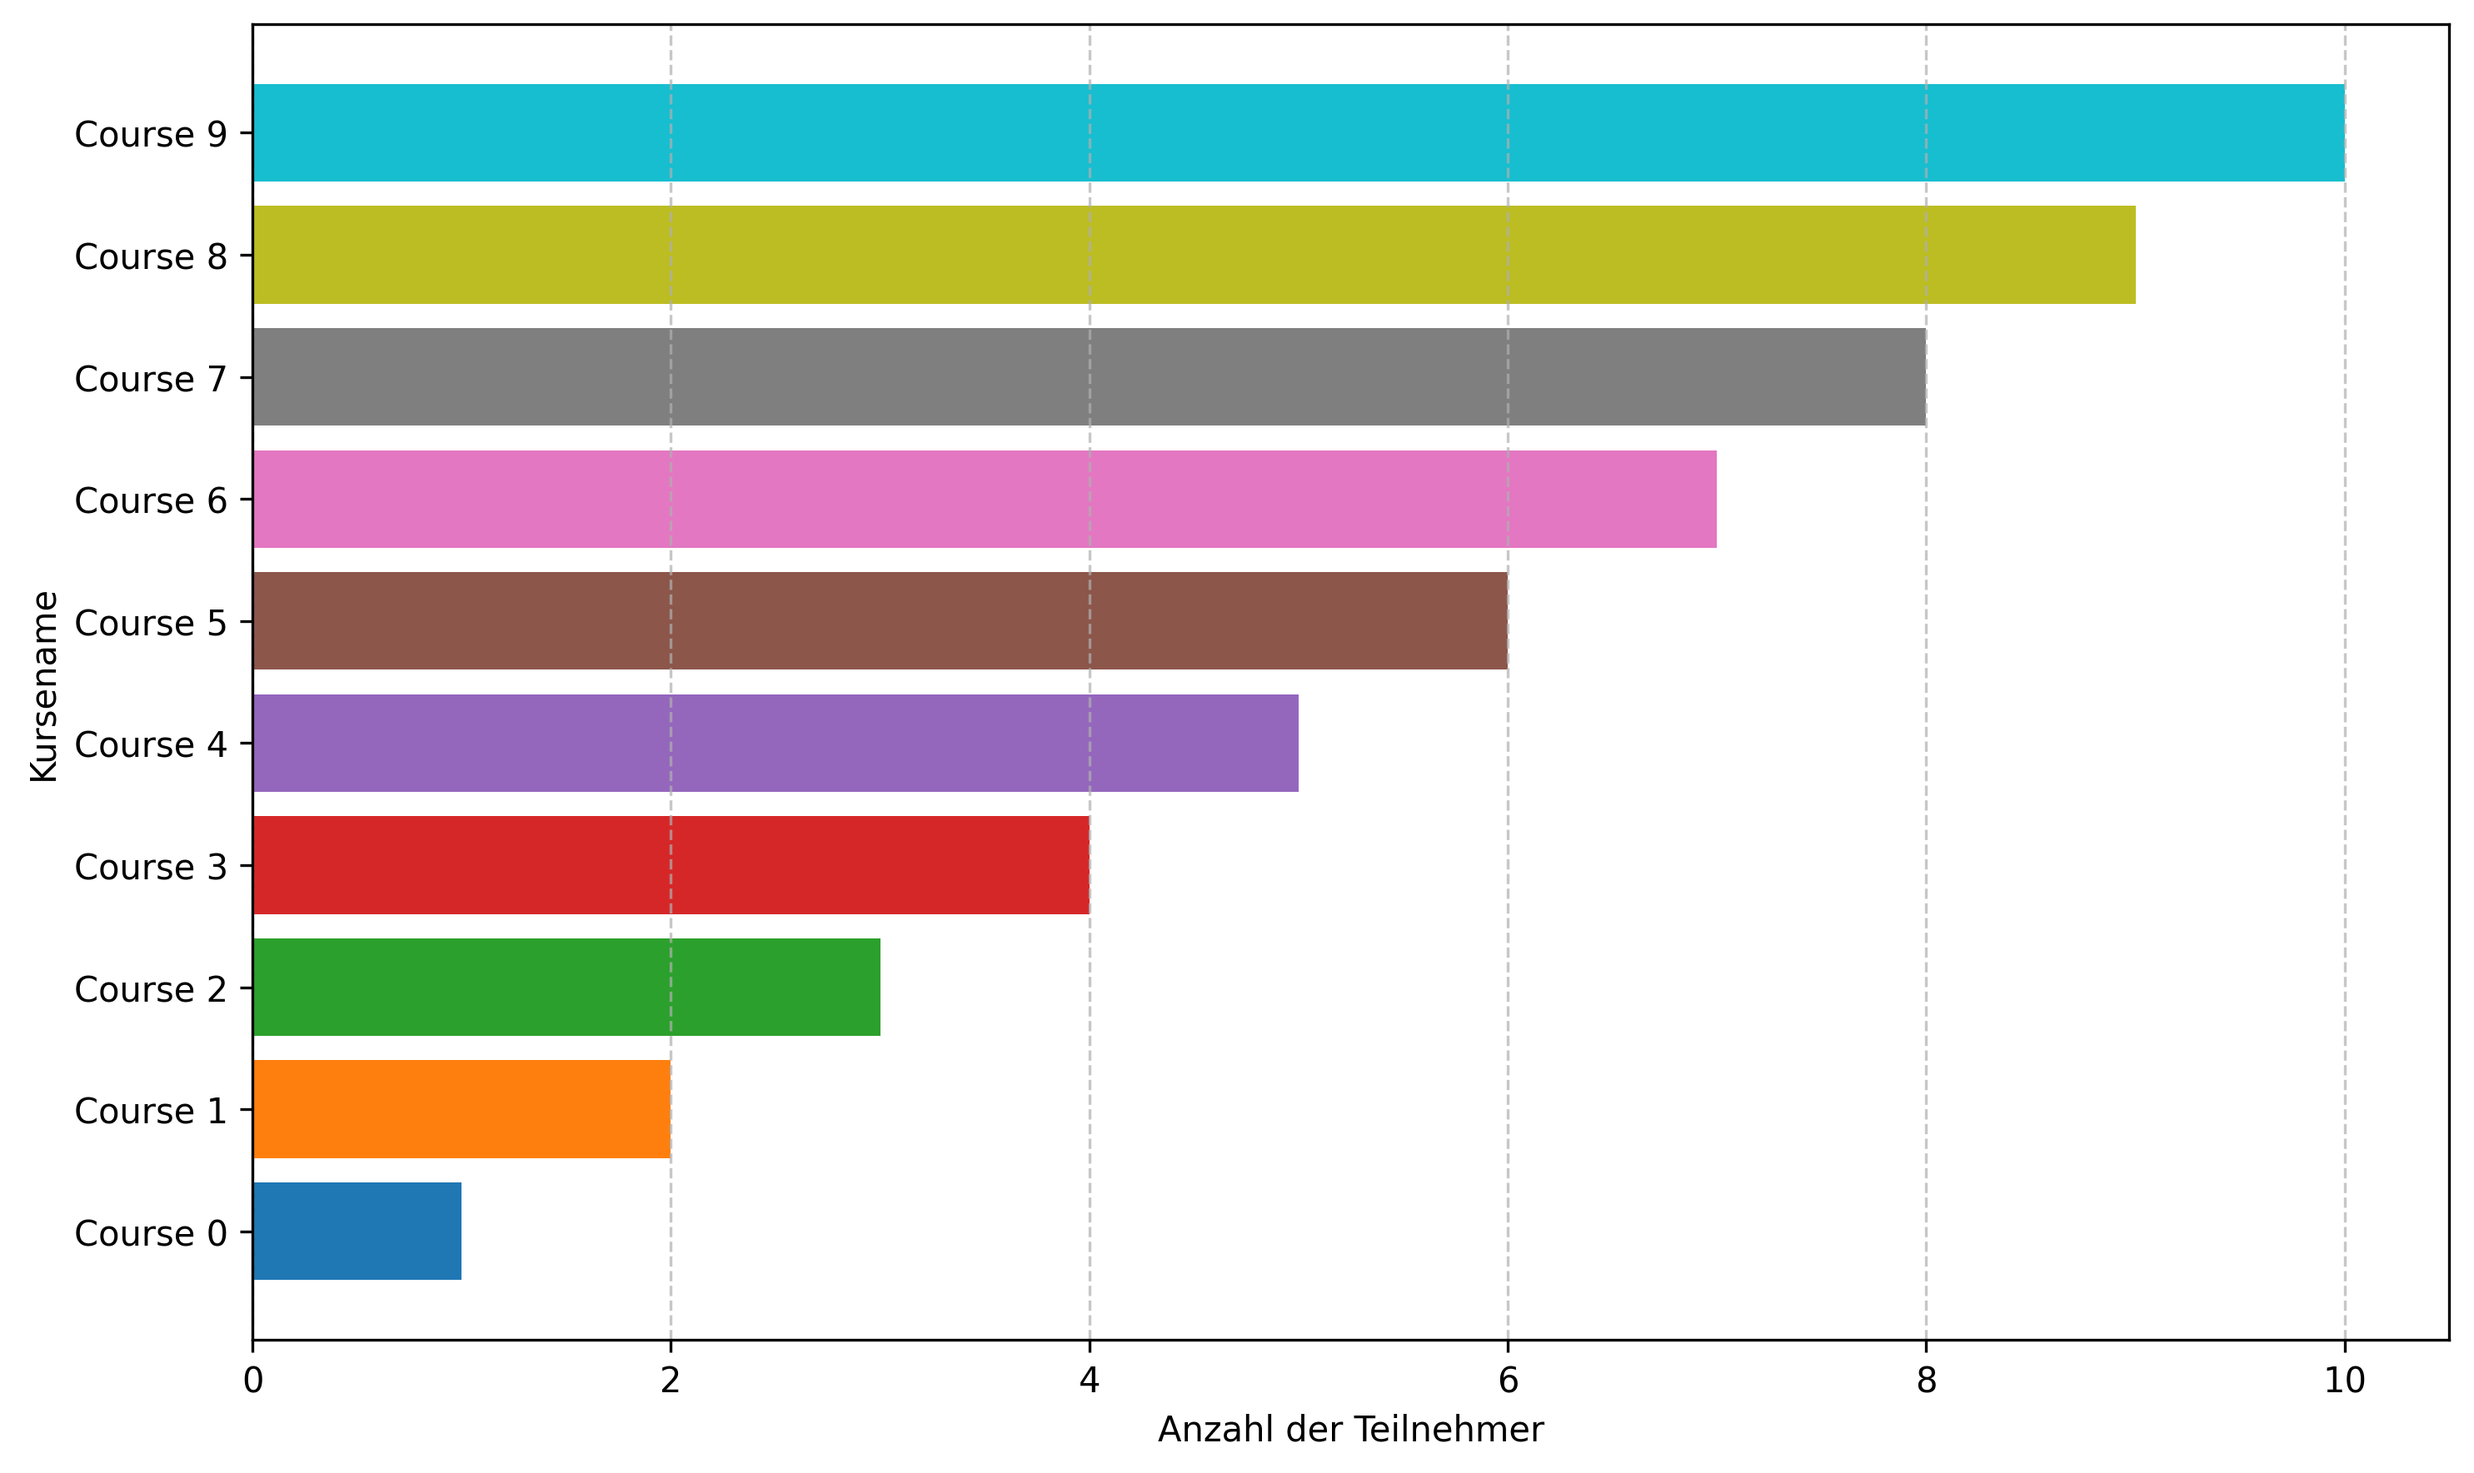
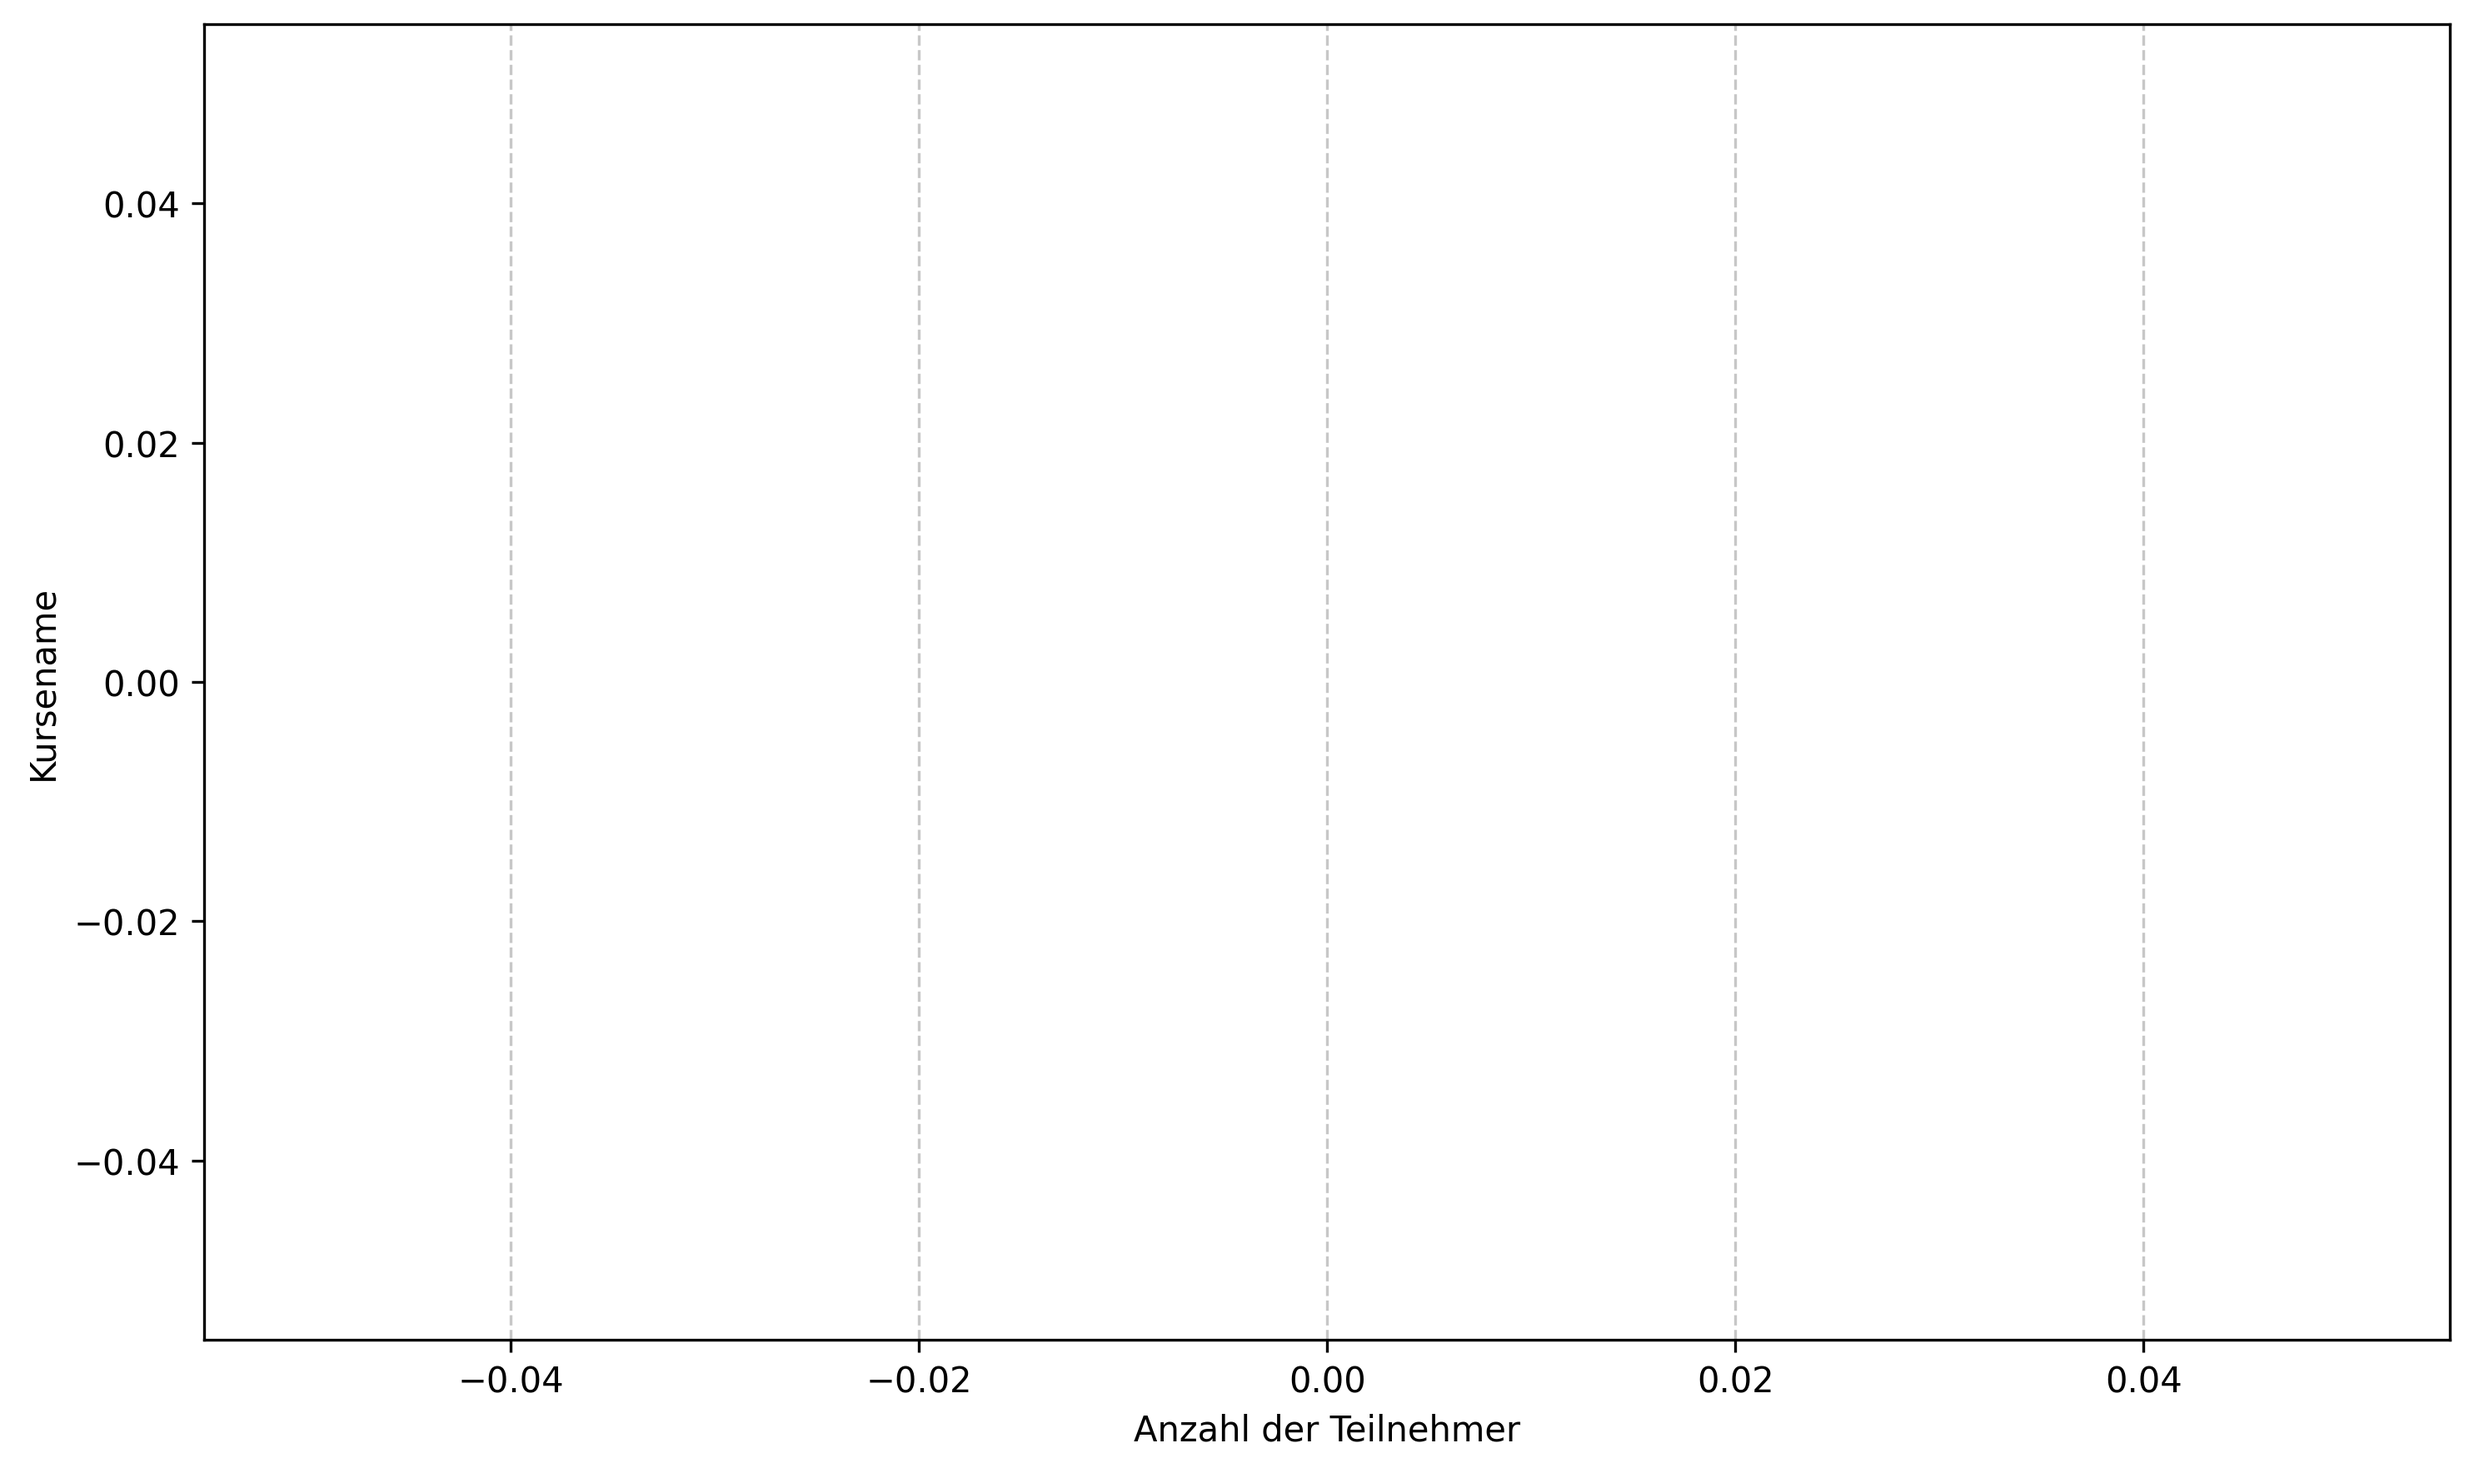
[UPDATE] statistics page now looks nice and uses bootstrap 5 for styling

diff --git a/app/statistics/pages/statistics.html b/app/statistics/pages/statistics.html
@@ -3,61 +3,112 @@
 {% block title %}Statistics{% endblock %}
 
 {% block body %}
-<h1>Statistiken</h1>
-<h2>Anzahl der Kurse pro Wochentag</h2>
-    <form action="{{ url_for('statistics.generate_year_and_month') }}" method="POST" style="display: block;">
-        <label for="monthSelect">Monat:</label>
-        <select id="monthSelect" name="monthSelect",>
-          <option value="01">Januar</option>
-          <option value="02">Februar</option>
-          <option value="03">März</option>
-          <option value="04">April</option>
-          <option value="05">Mai</option>
-          <option value="06">Juni</option>
-          <option value="07">Juli</option>
-          <option value="08">August</option>
-          <option value="09">September</option>
-          <option value="10">Oktober</option>
-          <option value="11">November</option>
-          <option value="12">Dezember</option>
-        </select>
+<div class="container my-5">
+  <h1 class="text-center mb-5 display-4">📊 Statistiken</h1>
+  <div class="row g-4">
+    <div class="col-lg-6">
+      <div class="card shadow-sm">
+        <div class="card-body">
+          <h2 class="card-title h4 mb-4">Anzahl der Kurse pro Wochentag</h2>
+          <form action="{{ url_for('statistics.generate_year_and_month') }}" method="POST" class="row g-3 align-items-end">
+            <div class="col-md-5">
+              <label for="monthSelect" class="form-label">Monat:</label>
+              <select id="monthSelect" name="monthSelect" class="form-select">
+                <option value="01">Januar</option>
+                <option value="02">Februar</option>
+                <option value="03">März</option>
+                <option value="04">April</option>
+                <option value="05">Mai</option>
+                <option value="06">Juni</option>
+                <option value="07">Juli</option>
+                <option value="08">August</option>
+                <option value="09">September</option>
+                <option value="10">Oktober</option>
+                <option value="11">November</option>
+                <option value="12">Dezember</option>
+              </select>
+            </div>
+            <div class="col-md-4">
+              <label for="yearSelect" class="form-label">Jahr:</label>
+              <input type="number" id="yearSelect" name="yearSelect" min="1970" max="2050" value="2025" step="1" class="form-control">
+            </div>
+            <div class="col-md-3">
+              <button class="btn btn-primary w-100" type="submit">
+                <i class="bi bi-bar-chart-line"></i> Generieren
+              </button>
+            </div>
+          </form>
 
-        <label for="yearSelect" style="margin-left: 15px;">Jahr:</label>
-        <input
-          type="number"
-          id="yearSelect"
-          name="yearSelect"
-          min="1970"
-          max="2050"
-          value="2025"
-          step="1"
-          style="width: 80px;">
-        <button type="submit" style="margin-left: 15px;">Generieren</button>
-    </form>
-    {% if yam_valid == true %}
-        <img src="{{ url_for('static', filename='plots/appointments_pie.png') }}" alt="Appointments Pie Chart" class="img-fluid mt-1" style="max-width: 600px; max-height: 600px;">
-    {% else %}
-        <br>
-        <p class="fw-bold">Keine Daten für den gewählten Zeitraum</p>
-    {% endif %}
+          {% if yam_valid == true %}
+          <div class="mt-4 text-center">
+            <img src="{{ url_for('static', filename='plots/appointments_pie.png') }}"
+                 alt="Anzahl der Kurse pro Wochentag"
+                 class="img-fluid rounded shadow-sm"
+                 style="cursor: pointer;"
+                 data-bs-toggle="modal"
+                 data-bs-target="#modalPieChart">
+          </div>
+          {% else %}
+          <p class="mt-4 text-muted fst-italic">Keine Daten für den gewählten Zeitraum</p>
+          {% endif %}
+        </div>
+      </div>
+    </div>
 
-<h2>Teilnehmeranzahl pro Kurs</h2>
-    <form action="{{ url_for('statistics.generate_year_only') }}" method="POST" style="display: block;">
-        <label for="yearOnly">Jahr:</label>
-        <input
-        type="number"
-        id="yearOnly"
-        name="yearOnly"
-        min="1970"
-        max="2050"
-        step="1"
-        value="2025">
-        <button type="submit" style="margin-left: 15px;">Generieren</button>
-    </form>
-    {% if year_only_valid == true %}
-        <img src="{{ url_for('static', filename='plots/appointments_bars.png') }}" alt="Appointments Pie Chart" class="img-fluid mt-1" style="max-width: 600px; max-height: 600px;">
-    {% else %}
-        <br>
-        <p class="fw-bold">Keine Daten für den gewählten Zeitraum</p>
-    {% endif %}
-{% endblock %}>
+    <div class="col-lg-6">
+      <div class="card shadow-sm">
+        <div class="card-body">
+          <h2 class="card-title h4 mb-4">Teilnehmeranzahl pro Kurs</h2>
+          <form action="{{ url_for('statistics.generate_year_only') }}" method="POST" class="row g-3 align-items-end">
+            <div class="col-md-6">
+              <label for="yearOnly" class="form-label">Jahr:</label>
+              <input type="number" id="yearOnly" name="yearOnly" min="1970" max="2050" value="2025" step="1" class="form-control">
+            </div>
+            <div class="col-md-6">
+              <button class="btn btn-primary w-100" type="submit">
+                <i class="bi bi-bar-chart"></i> Generieren
+              </button>
+            </div>
+          </form>
+
+          {% if year_only_valid == true %}
+          <div class="mt-4 text-center">
+            <img src="{{ url_for('static', filename='plots/appointments_bars.png') }}"
+                 alt="Teilnehmeranzahl pro Kurs"
+                 class="img-fluid rounded shadow-sm"
+                 style="cursor: pointer;"
+                 data-bs-toggle="modal"
+                 data-bs-target="#modalBarChart">
+          </div>
+          {% else %}
+          <p class="mt-4 text-muted fst-italic">Keine Daten für den gewählten Zeitraum</p>
+          {% endif %}
+        </div>
+      </div>
+    </div>
+  </div>
+</div>
+
+<!-- Modal for Pie Chart -->
+<div class="modal fade" id="modalPieChart" tabindex="-1" aria-labelledby="Anzahl der Kurse pro Wochentag" aria-hidden="true">
+  <div class="modal-dialog modal-lg modal-dialog-centered">
+    <div class="modal-content">
+      <div class="modal-body p-0">
+        <img src="{{ url_for('static', filename='plots/appointments_pie.png') }}" class="img-fluid w-100">
+      </div>
+    </div>
+  </div>
+</div>
+
+<!-- Modal for Bar Chart -->
+<div class="modal fade" id="modalBarChart" tabindex="-1" aria-labelledby="Teilnehmeranzahl pro Kurs" aria-hidden="true">
+  <div class="modal-dialog modal-lg modal-dialog-centered">
+    <div class="modal-content">
+      <div class="modal-body p-0">
+        <img src="{{ url_for('static', filename='plots/appointments_bars.png') }}" class="img-fluid w-100">
+      </div>
+    </div>
+  </div>
+</div>
+
+{% endblock %}

diff --git a/app/main/pages/base.html b/app/main/pages/base.html
@@ -17,6 +17,7 @@
     {% endblock %}
 
     <link rel="shortcut icon" href="{{ url_for('static', filename='favicon.ico') }}">
+    <link rel="stylesheet" href="https://cdn.jsdelivr.net/npm/bootstrap-icons@1.10.5/font/bootstrap-icons.css">
 </head>
 
 <body>
